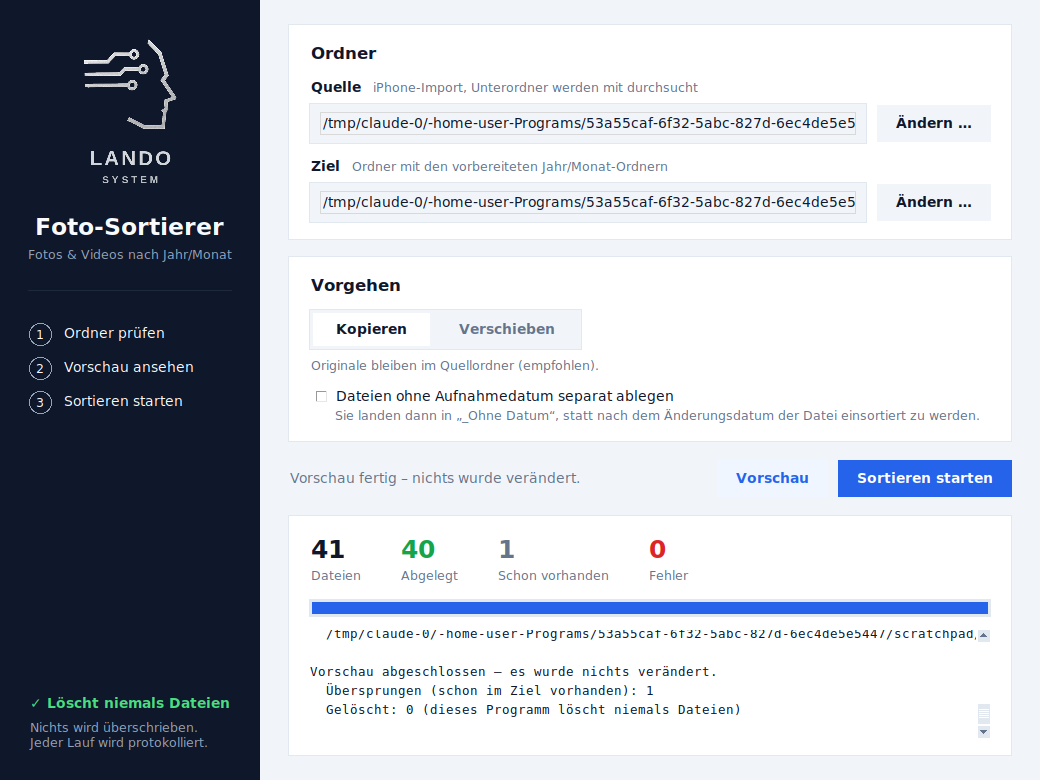
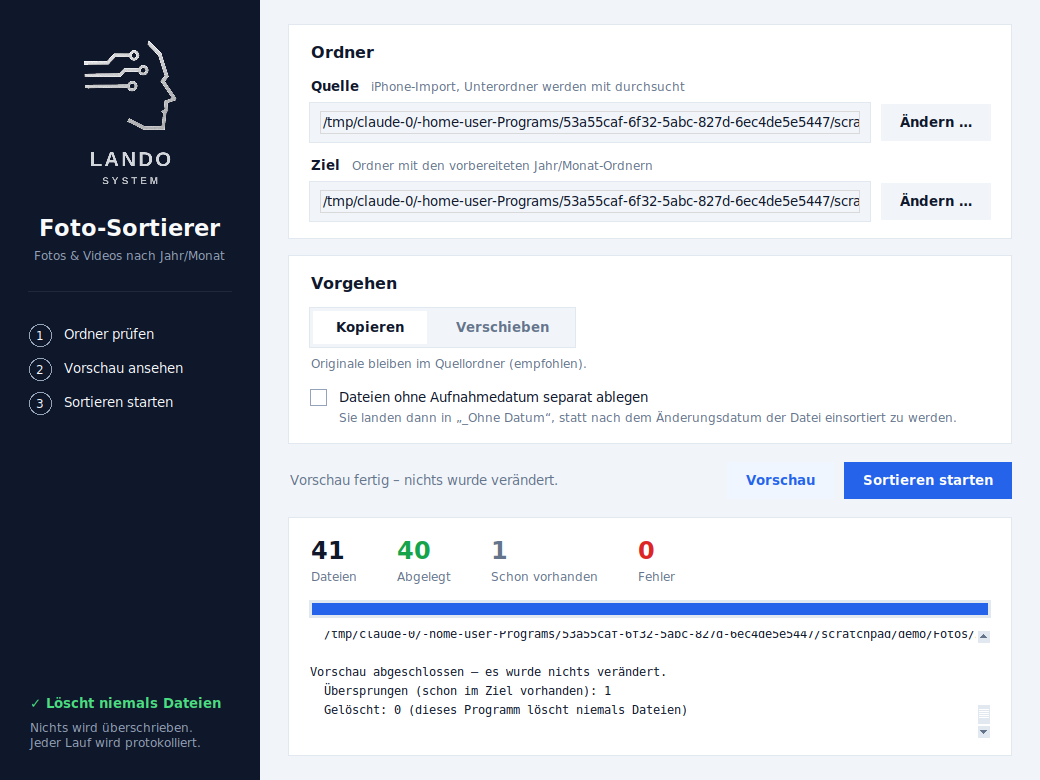
Foto-Sortierer: Seitenleiste bei Windows-Skalierung sauber darstellen
Bei 125/150/200 % Bildschirmskalierung wuchsen die Schriften mit, die
Seitenleiste behielt aber ihre feste Pixelbreite, sodass Titel, Schritte
und Hinweis abgeschnitten wurden. Feste Pixelmasse (Fensterhoehe/-breite,
Seitenleiste, Schritt-Kreise, Raender, Logo-Groesse) werden jetzt mit der
Tk-Skalierung umgerechnet; die Seitenleiste waechst zusaetzlich mit
ihrem Inhalt. Fenstergroesse wird auf den Bildschirm begrenzt. Das
winzige Standard-Haekchen ersetzt ein eigenes, skaliertes Kaestchen.

Claude-Session: https://claude.ai/code/session_0121HCvHBFf7fJq7ZnHxj6n7

diff --git a/foto_sortierer/foto_sortierer.py b/foto_sortierer/foto_sortierer.py
@@ -940,13 +940,26 @@ def starte_gui():
 
     fenster = tk.Tk()
     fenster.title("Foto-Sortierer – Lando System")
-    fenster.geometry("1040x780")
-    fenster.minsize(900, 680)
     fenster.configure(bg=F["hintergrund"])
+
+    # Windows-Skalierung (125 %, 150 % …): Schriften wachsen automatisch mit,
+    # feste Pixelmaße müssen wir selbst umrechnen.
+    skalierung = max(1.0, float(fenster.tk.call("tk", "scaling")) * 72 / 96)  # 1.0 = 100 %
+
+    def px(wert):
+        return int(round(wert * skalierung))
+
+    bildschirm_b, bildschirm_h = fenster.winfo_screenwidth(), fenster.winfo_screenheight()
+    fenster.geometry(f"{min(px(1040), int(bildschirm_b * 0.92))}x{min(px(780), int(bildschirm_h * 0.85))}")
+    fenster.minsize(min(px(900), int(bildschirm_b * 0.8)), min(px(620), int(bildschirm_h * 0.7)))
 
     logo_gross = logo_icon = None
     try:
-        logo_gross = tk.PhotoImage(data=LANDO_LOGO_GROSS).subsample(2)
+        logo_gross = tk.PhotoImage(data=LANDO_LOGO_GROSS)  # 200 x 313 Pixel
+        if skalierung < 1.25:
+            logo_gross = logo_gross.subsample(2)
+        elif skalierung < 1.75:
+            logo_gross = logo_gross.zoom(3).subsample(4)
         logo_icon = tk.PhotoImage(data=LANDO_LOGO_ICON)
         fenster.iconphoto(True, logo_icon)
     except tk.TclError:
@@ -1007,9 +1020,10 @@ def starte_gui():
 
     # --- Seitenleiste mit Lando-Logo --------------------------------------
 
-    seite = tk.Frame(fenster, bg=F["seite"], width=260)
+    seite = tk.Frame(fenster, bg=F["seite"])
     seite.pack(side="left", fill="y")
-    seite.pack_propagate(False)
+    # Mindestbreite; wird der Inhalt breiter (große Schrift), wächst die Leiste mit
+    tk.Frame(seite, bg=F["seite"], width=px(260), height=0).pack()
 
     if logo_gross is not None:
         tk.Label(seite, image=logo_gross, bg=F["seite"]).pack(pady=(34, 10))
@@ -1018,21 +1032,22 @@ def starte_gui():
     tk.Label(seite, text="Fotos & Videos nach Jahr/Monat", font=S["klein"], bg=F["seite"],
              fg=F["seite_leise"]).pack()
 
-    tk.Frame(seite, bg=F["seite_linie"], height=1).pack(fill="x", padx=28, pady=26)
+    tk.Frame(seite, bg=F["seite_linie"], height=1).pack(fill="x", padx=px(28), pady=px(26))
 
     schritte = tk.Frame(seite, bg=F["seite"])
-    schritte.pack(fill="x", padx=28)
+    schritte.pack(fill="x", padx=px(28))
     for nr, text in enumerate(("Ordner prüfen", "Vorschau ansehen", "Sortieren starten"), 1):
         zeile = tk.Frame(schritte, bg=F["seite"])
         zeile.pack(fill="x", pady=5)
-        kreis = tk.Canvas(zeile, width=24, height=24, bg=F["seite"], highlightthickness=0)
-        kreis.create_oval(1, 1, 23, 23, outline=F["seite_leise"], width=1)
-        kreis.create_text(12, 12, text=str(nr), fill=F["seite_text"], font=S["klein"])
+        d = px(24)
+        kreis = tk.Canvas(zeile, width=d, height=d, bg=F["seite"], highlightthickness=0)
+        kreis.create_oval(1, 1, d - 1, d - 1, outline=F["seite_leise"], width=1)
+        kreis.create_text(d / 2, d / 2, text=str(nr), fill=F["seite_text"], font=S["klein"])
         kreis.pack(side="left")
         tk.Label(zeile, text=text, font=S["normal"], bg=F["seite"], fg=F["seite_text"]).pack(side="left", padx=10)
 
     hinweis = tk.Frame(seite, bg=F["seite"])
-    hinweis.pack(side="bottom", fill="x", padx=28, pady=28)
+    hinweis.pack(side="bottom", fill="x", padx=px(28), pady=px(28))
     tk.Label(hinweis, text="✓ Löscht niemals Dateien", font=S["fett"], bg=F["seite"],
              fg="#4ADE80", anchor="w").pack(fill="x")
     tk.Label(hinweis, text="Nichts wird überschrieben.\nJeder Lauf wird protokolliert.",
@@ -1042,7 +1057,7 @@ def starte_gui():
     # --- Inhalt -----------------------------------------------------------
 
     inhalt = tk.Frame(fenster, bg=F["hintergrund"])
-    inhalt.pack(side="left", fill="both", expand=True, padx=28, pady=24)
+    inhalt.pack(side="left", fill="both", expand=True, padx=px(28), pady=px(24))
 
     # Ordner
     ordner_karte, ordner_innen = karte(inhalt, "Ordner")
@@ -1104,13 +1119,36 @@ def starte_gui():
     modus_hilfe.pack(fill="x", pady=(6, 0))
     modus_setzen("kopieren")
 
-    tk.Checkbutton(optionen_innen, text=" Dateien ohne Aufnahmedatum separat ablegen",
-                   variable=ohne_datum_var, font=S["normal"], bg=F["karte"], fg=F["text"],
-                   activebackground=F["karte"], selectcolor=F["karte"], highlightthickness=0,
-                   bd=0, anchor="w").pack(fill="x", pady=(12, 0))
+    # eigenes Kästchen: das Standard-Häkchen von Tk wächst unter Windows nicht mit der Skalierung
+    haken_zeile = tk.Frame(optionen_innen, bg=F["karte"], cursor="hand2")
+    haken_zeile.pack(fill="x", pady=(14, 0))
+    k = px(18)
+    haken = tk.Canvas(haken_zeile, width=k, height=k, bg=F["karte"], highlightthickness=0, cursor="hand2")
+    haken.pack(side="left")
+    haken_text = tk.Label(haken_zeile, text="Dateien ohne Aufnahmedatum separat ablegen", font=S["normal"],
+                          bg=F["karte"], fg=F["text"], cursor="hand2")
+    haken_text.pack(side="left", padx=(px(10), 0))
+
+    def haken_zeichnen():
+        haken.delete("all")
+        if ohne_datum_var.get():
+            haken.create_rectangle(1, 1, k - 1, k - 1, fill=F["akzent"], outline=F["akzent"])
+            haken.create_line(k * 0.25, k * 0.52, k * 0.43, k * 0.70, k * 0.76, k * 0.32,
+                              fill="#FFFFFF", width=max(2, px(2)), capstyle="round", joinstyle="round")
+        else:
+            haken.create_rectangle(1, 1, k - 1, k - 1, fill=F["karte"], outline="#94A3B8")
+
+    def haken_umschalten(_=None):
+        if not laeuft["aktiv"]:
+            ohne_datum_var.set(not ohne_datum_var.get())
+            haken_zeichnen()
+
+    for w in (haken_zeile, haken, haken_text):
+        w.bind("<Button-1>", haken_umschalten)
+    haken_zeichnen()
     tk.Label(optionen_innen, text=f"Sie landen dann in „{OHNE_DATUM_ORDNER}“, statt nach dem Änderungsdatum "
                                   "der Datei einsortiert zu werden.",
-             font=S["klein"], bg=F["karte"], fg=F["leise"], anchor="w").pack(fill="x", padx=(24, 0))
+             font=S["klein"], bg=F["karte"], fg=F["leise"], anchor="w").pack(fill="x", padx=(k + px(10), 0))
 
     # Aktionen
     aktionen = tk.Frame(inhalt, bg=F["hintergrund"])
